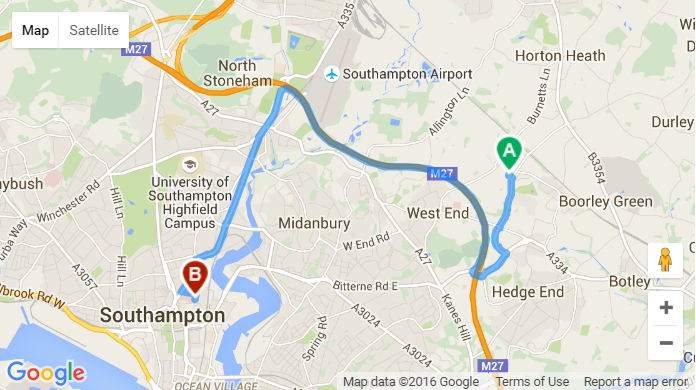
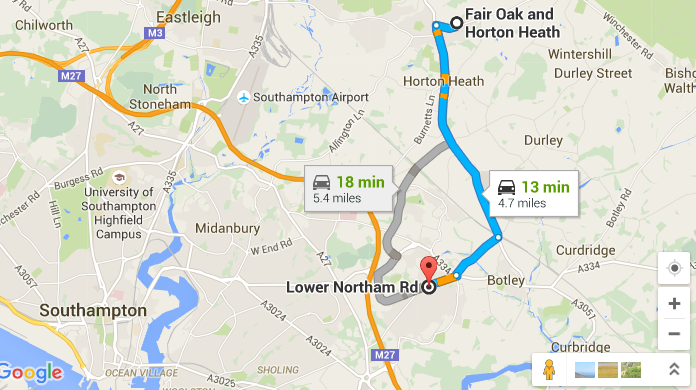
updated images to match results and made service details more user freindly

diff --git a/prototypes/referral-signposting/1/itkreferral.html b/prototypes/referral-signposting/1/itkreferral.html
@@ -298,12 +298,12 @@
         <section style="border-bottom: solid rgba(128, 128, 128, 0.5) 1px; margin-bottom: 10px;">
             <div class="section-item">
                 <h3 class="section-header">
-                    Directions to MH - In hours - NON Caseload / New Patients (18 yrs + ) - Isle of Wight from SO30 2UN
+                    Directions to Hampshire GP - Hedge End Medical Centre, Southampton
                 </h3>
 
                 <div class="personal-details-content" style="margin-bottom: 10px;">
                     <div style="float: left; display: block;" class=" service-address">
-                        CRHT , Sevenacres, St Marys Hospital, Newport, Isle of Wight, PO30 5TG
+                        24-28 Lower Northam Road, Hedge End, Southampton, SO30 4FQ
                     </div>
                     <a style="float: left; display: block; margin-left: 20px;" href="#">Choose a different service</a>
                     </div>
@@ -323,17 +323,12 @@
                                 </tr>
                                 <tr jstcache="146" jsinstance="0">
                                     <td data-route-index="0" jstcache="147" jsaction="directionsRouteList.selectRoute" class="adp-listsel" jsan="7.adp-listsel,0.data-route-index,22.jsaction">
-                                        <span class="adp-listinfo"><b jstcache="148">M27 and A335 </b><span jstcache="149">8.4 mi</span><span jstcache="150">. </span><span jstcache="151">About <span jstcache="82">19 mins</span></span><span jstcache="152" style="display: none"></span></span>
+                                        <span class="adp-listinfo"><b jstcache="148">via B3354 and Winchester Rd/B3354 </b><span jstcache="149">4.7 mi</span><span jstcache="150">. </span><span jstcache="151">About <span jstcache="82">13 mins</span></span><span jstcache="152" style="display: none"></span></span>
                                     </td>
                                 </tr>
                                 <tr jstcache="146" jsinstance="1">
                                     <td data-route-index="1" jstcache="147" jsaction="directionsRouteList.selectRoute" jsan="0.data-route-index,22.jsaction">
-                                        <span class="adp-listinfo"><b jstcache="148">W End Rd </b><span jstcache="149">5.7 mi</span><span jstcache="150">. </span><span jstcache="151">About <span jstcache="82">20 mins</span></span><span jstcache="152" style="display: none"></span></span>
-                                    </td>
-                                </tr>
-                                <tr jstcache="146" jsinstance="*2">
-                                    <td data-route-index="2" jstcache="147" jsaction="directionsRouteList.selectRoute" jsan="0.data-route-index,22.jsaction">
-                                        <span class="adp-listinfo"><b jstcache="148">A335 </b><span jstcache="149">6.6 mi</span><span jstcache="150">. </span><span jstcache="151">About <span jstcache="82">22 mins</span></span><span jstcache="152" style="display: none"></span></span>
+                                        <span class="adp-listinfo"><b jstcache="148">via B3354 </b><span jstcache="149">5.4 mi</span><span jstcache="150">. </span><span jstcache="151">About <span jstcache="82">18 mins</span></span><span jstcache="152" style="display: none"></span></span>
                                     </td>
                                 </tr>
                             </tbody>
@@ -356,14 +351,14 @@
                                         <td>
                                             <img jstcache="53" src="https://mts.googleapis.com/maps/vt/icon/name=icons/spotlight/spotlight-waypoint-a.png&amp;text=A&amp;psize=16&amp;font=fonts/Roboto-Regular.ttf&amp;color=ff333333&amp;ax=44&amp;ay=48&amp;scale=2" class="adp-marker">
                                         </td>
-                                        <td jstcache="54" class="adp-text" jsan="7.adp-text">Hedge End, Southampton, Hampshire SO30 2UN, UK</td>
+                                        <td jstcache="54" class="adp-text" jsan="7.adp-text">Fair Oak and Horton Heath, Hampshire, UK</td>
                                     </tr>
                                 </tbody>
                             </table>
                         </div>
                         <div jstcache="55" jsinstance="*0">
                             <div class="adp-summary">
-                                <span jstcache="56">8.4 mi</span><span jstcache="57">. </span><span jstcache="58">About <span jstcache="82">19 mins</span></span> <span jstcache="59" style="display: none"></span>
+                                <span jstcache="56">4.7 mi</span><span jstcache="57">. </span><span jstcache="58">About <span jstcache="82">13 mins</span></span> <span jstcache="59" style="display: none"></span>
                             </div>
                             <div>
                                 <table class="adp-directions">
@@ -376,8 +371,7 @@
                                             </td>
                                             <td jstcache="63" class="adp-substep" jsan="7.adp-substep">1.</td>
                                             <td jstcache="64" class="adp-substep">
-                                                Head <b>north-east</b> towards <b>Tollbar Way</b>/<b>B3342</b>
-                                                <div style="font-size: 0.9em">Restricted-usage road</div>
+                                                Head west on Pembers Cl towards Mortimers Ln/B3037
                                             </td>
                                             <td class="adp-substep">
                                                 <div jstcache="65" class="adp-distance" jsan="7.adp-distance">279 ft</div>
@@ -391,8 +385,7 @@
                                             </td>
                                             <td jstcache="63" class="adp-substep" jsan="7.adp-substep">2.</td>
                                             <td jstcache="64" class="adp-substep">
-                                                Turn <b>right</b> onto <b>Tollbar Way</b>/<b>B3342</b>
-                                                <div style="font-size: 0.9em">Go through 1 roundabout</div>
+                                                Turn right onto Mortimers Ln/B3037
                                             </td>
                                             <td class="adp-substep">
                                                 <div jstcache="65" class="adp-distance" jsan="7.adp-distance">0.6 mi</div>
@@ -401,13 +394,13 @@
                                         <tr data-leg-index="0" data-step-index="2" jstcache="60" jsaction="directionsPanel.selectLegAndStep" jsinstance="2">
                                             <td class="adp-substep">
                                                 <div jstcache="61" class="adp-stepicon">
-                                                    <div jstcache="62" class="adp-roundabout-left adp-maneuver" jsan="7.adp-roundabout-left,7.adp-maneuver"></div>
+                                                    <div jstcache="62" class="adp-turn-left adp-maneuver" jsan="7.adp-turn-left,7.adp-maneuver"></div>
                                                 </div>
                                             </td>
                                             <td jstcache="63" class="adp-substep" jsan="7.adp-substep">3.</td>
                                             <td jstcache="64" class="adp-substep">
-                                                At the roundabout, take the <b>2nd</b> exit and stay on <b>Tollbar Way</b>/<b>B3342</b>
-                                                <div style="font-size: 0.9em">Go through 1 roundabout</div>
+                                                Turn left onto Winchester Rd/B3354
+                                                <div style="font-size: 0.9em">Continue to follow B3354</div>
                                             </td>
                                             <td class="adp-substep">
                                                 <div jstcache="65" class="adp-distance" jsan="7.adp-distance">0.3 mi</div>
@@ -416,11 +409,11 @@
                                         <tr data-leg-index="0" data-step-index="3" jstcache="60" jsaction="directionsPanel.selectLegAndStep" jsinstance="3">
                                             <td class="adp-substep">
                                                 <div jstcache="61" class="adp-stepicon">
-                                                    <div jstcache="62" class="adp-roundabout-left adp-maneuver" jsan="7.adp-roundabout-left,7.adp-maneuver"></div>
+                                                    <div jstcache="62" class="adp-turn-right adp-maneuver" jsan="7.adp-turn-right,7.adp-maneuver"></div>
                                                 </div>
                                             </td>
                                             <td jstcache="63" class="adp-substep" jsan="7.adp-substep">4.</td>
-                                            <td jstcache="64" class="adp-substep">At the roundabout, take the <b>2nd</b> exit and stay on <b>Tollbar Way</b>/<b>B3342</b></td>
+                                            <td jstcache="64" class="adp-substep">Turn right onto Woodhouse Ln</td>
                                             <td class="adp-substep">
                                                 <div jstcache="65" class="adp-distance" jsan="7.adp-distance">0.1 mi</div>
                                             </td>
@@ -432,7 +425,7 @@
                                                 </div>
                                             </td>
                                             <td jstcache="63" class="adp-substep" jsan="7.adp-substep">5.</td>
-                                            <td jstcache="64" class="adp-substep">At the roundabout, take the <b>3rd</b> exit onto <b>Charles Watts Way</b>/<b>A334</b></td>
+                                            <td jstcache="64" class="adp-substep">At the roundabout, take the 3rd exit onto Lower Northam Rd/B3033</td>
                                             <td class="adp-substep">
                                                 <div jstcache="65" class="adp-distance" jsan="7.adp-distance">0.4 mi</div>
                                             </td>
@@ -440,91 +433,16 @@
                                         <tr data-leg-index="0" data-step-index="5" jstcache="60" jsaction="directionsPanel.selectLegAndStep" jsinstance="5">
                                             <td class="adp-substep">
                                                 <div jstcache="61" class="adp-stepicon">
-                                                    <div jstcache="62" class="adp-roundabout-left adp-maneuver" jsan="7.adp-roundabout-left,7.adp-maneuver"></div>
+                                                    <div jstcache="62" class="adp-turn-left adp-maneuver" jsan="7.adp-turn-left,7.adp-maneuver"></div>
                                                 </div>
                                             </td>
                                             <td jstcache="63" class="adp-substep" jsan="7.adp-substep">6.</td>
-                                            <td jstcache="64" class="adp-substep">At the roundabout, take the <b>4th</b> exit onto the <b>M27</b> slip road to <b>Southampton West &amp; Docks</b>/<b>Eastleigh</b>/<b>Winchester</b></td>
-                                            <td class="adp-substep">
-                                                <div jstcache="65" class="adp-distance" jsan="7.adp-distance">0.5 mi</div>
+                                            <td jstcache="64" class="adp-substep">
+                                                Turn left
+                                                <div style="font-size: 0.9em">Destination will be on the left</div>
                                             </td>
-                                        </tr>
-                                        <tr data-leg-index="0" data-step-index="6" jstcache="60" jsaction="directionsPanel.selectLegAndStep" jsinstance="6">
-                                            <td class="adp-substep">
-                                                <div jstcache="61" class="adp-stepicon">
-                                                    <div jstcache="62" class="adp-merge adp-maneuver" jsan="7.adp-merge,7.adp-maneuver"></div>
-                                                </div>
-                                            </td>
-                                            <td jstcache="63" class="adp-substep" jsan="7.adp-substep">7.</td>
-                                            <td jstcache="64" class="adp-substep">Merge onto <b>M27</b></td>
-                                            <td class="adp-substep">
-                                                <div jstcache="65" class="adp-distance" jsan="7.adp-distance">3.1 mi</div>
-                                            </td>
-                                        </tr>
-                                        <tr data-leg-index="0" data-step-index="7" jstcache="60" jsaction="directionsPanel.selectLegAndStep" jsinstance="7">
-                                            <td class="adp-substep">
-                                                <div jstcache="61" class="adp-stepicon">
-                                                    <div jstcache="62" class="adp-ramp-left adp-maneuver" jsan="7.adp-ramp-left,7.adp-maneuver"></div>
-                                                </div>
-                                            </td>
-                                            <td jstcache="63" class="adp-substep" jsan="7.adp-substep">8.</td>
-                                            <td jstcache="64" class="adp-substep">At junction <b>5</b>, take the <b>A335</b> exit to <b>Southampton Airport</b>/<b>Eastleigh</b></td>
                                             <td class="adp-substep">
                                                 <div jstcache="65" class="adp-distance" jsan="7.adp-distance">0.2 mi</div>
-                                            </td>
-                                        </tr>
-                                        <tr data-leg-index="0" data-step-index="8" jstcache="60" jsaction="directionsPanel.selectLegAndStep" jsinstance="8">
-                                            <td class="adp-substep">
-                                                <div jstcache="61" class="adp-stepicon">
-                                                    <div jstcache="62" class="adp-roundabout-left adp-maneuver" jsan="7.adp-roundabout-left,7.adp-maneuver"></div>
-                                                </div>
-                                            </td>
-                                            <td jstcache="63" class="adp-substep" jsan="7.adp-substep">9.</td>
-                                            <td jstcache="64" class="adp-substep">At the roundabout, take the <b>1st</b> exit onto <b>Stoneham Way</b>/<b>A335</b></td>
-                                            <td class="adp-substep">
-                                                <div jstcache="65" class="adp-distance" jsan="7.adp-distance">0.7 mi</div>
-                                            </td>
-                                        </tr>
-                                        <tr data-leg-index="0" data-step-index="9" jstcache="60" jsaction="directionsPanel.selectLegAndStep" jsinstance="9">
-                                            <td class="adp-substep">
-                                                <div jstcache="61" class="adp-stepicon">
-                                                    <div jstcache="62" class="adp-turn-left adp-maneuver" jsan="7.adp-turn-left,7.adp-maneuver"></div>
-                                                </div>
-                                            </td>
-                                            <td jstcache="63" class="adp-substep" jsan="7.adp-substep">10.</td>
-                                            <td jstcache="64" class="adp-substep">
-                                                Turn <b>left</b> onto <b>Thomas Lewis Way</b>/<b>A335</b>
-                                                <div style="font-size: 0.9em">Continue to follow A335</div>
-                                            </td>
-                                            <td class="adp-substep">
-                                                <div jstcache="65" class="adp-distance" jsan="7.adp-distance">2.2 mi</div>
-                                            </td>
-                                        </tr>
-                                        <tr data-leg-index="0" data-step-index="10" jstcache="60" jsaction="directionsPanel.selectLegAndStep" jsinstance="10">
-                                            <td class="adp-substep">
-                                                <div jstcache="61" class="adp-stepicon">
-                                                    <div jstcache="62" class="adp-turn-left adp-maneuver" jsan="7.adp-turn-left,7.adp-maneuver"></div>
-                                                </div>
-                                            </td>
-                                            <td jstcache="63" class="adp-substep" jsan="7.adp-substep">11.</td>
-                                            <td jstcache="64" class="adp-substep">Turn <b>left</b> onto <b>Lyon St</b></td>
-                                            <td class="adp-substep">
-                                                <div jstcache="65" class="adp-distance" jsan="7.adp-distance">0.2 mi</div>
-                                            </td>
-                                        </tr>
-                                        <tr data-leg-index="0" data-step-index="11" jstcache="60" jsaction="directionsPanel.selectLegAndStep" jsinstance="*11">
-                                            <td class="adp-substep">
-                                                <div jstcache="61" class="adp-stepicon">
-                                                    <div jstcache="62" class="adp-turn-right adp-maneuver" jsan="7.adp-turn-right,7.adp-maneuver"></div>
-                                                </div>
-                                            </td>
-                                            <td jstcache="63" class="adp-substep" jsan="7.adp-substep">12.</td>
-                                            <td jstcache="64" class="adp-substep">
-                                                Turn <b>right</b> onto <b>Raven Rd</b>
-                                                <div style="font-size: 0.9em">Destination will be on the right</div>
-                                            </td>
-                                            <td class="adp-substep">
-                                                <div jstcache="65" class="adp-distance" jsan="7.adp-distance">358 ft</div>
                                             </td>
                                         </tr>
                                     </tbody>
@@ -537,7 +455,7 @@
                                             <td>
                                                 <img jstcache="67" src="https://mts.googleapis.com/maps/vt/icon/name=icons/spotlight/spotlight-waypoint-b.png&amp;text=B&amp;psize=16&amp;font=fonts/Roboto-Regular.ttf&amp;color=ff333333&amp;ax=44&amp;ay=48&amp;scale=2" class="adp-marker">
                                             </td>
-                                            <td jstcache="68" class="adp-text" jsan="7.adp-text">Southampton, Southampton SO14 0YG, UK</td>
+                                            <td jstcache="68" class="adp-text" jsan="7.adp-text">Lower Northam Rd, Hedge End, Southampton SO30 4FQ, UK</td>
                                         </tr>
                                     </tbody>
                                 </table>

diff --git a/prototypes/referral-signposting/1/SearchResults.html b/prototypes/referral-signposting/1/SearchResults.html
@@ -122,17 +122,18 @@
                         Recommended service
                     </h3>
                     <div class="service-list-content">
-                        <div class="service-name"><img src="icons/fac-map-A.png"/> MH - In hours - NON Caseload / New Patients (18 yrs + ) - Isle of Wight
+                        <div class="service-name">
+                            <img src="icons/fac-map-A.png" />Hampshire GP - Hedge End Medical Centre, Southampton
                         </div>
                         <div class="service-address">
-                            CRHT<br/>Sevenacres<br/>St Marys Hospital<br/>Newport, Isle of Wight<br/>PO30 5TG
+                            24-28 Lower Northam Road<br /> Hedge End<br />Southampton<br />SO30 4FQ
                         </div>
-                        <input data-val="true" data-val-number="The field IdField must be a number." data-val-required="The IdField field is required." id="IdField" name="IdField" type="hidden" value="1396255437">
 
                         <div class="service-actions">
                             <button class="button" name="PersonalDetails" value="">Get directions</button>
                             <button class="button expectme" name="PersonalDetails" value="">Let them know to expect me</button>
                         </div>
+
                     </div>
                 </div>
             </section>
@@ -143,33 +144,7 @@
                         Other services near you
                     </h3>
                     <div class="service-list-content">
-                        <div class="service-name"><img src="icons/fac-map-B.png"/>MH - Community Child and Adolescent MH Service up to 18 yrs- Isle of Wight
-                        </div>
-                        <div class="service-address">
-                            7 Pyle Street<br/>Newport<br/>Isle of Wight<br/>PO30 1JW
-                        </div>
-                        <input data-val="true" data-val-number="The field IdField must be a number." data-val-required="The IdField field is required." id="IdField" name="IdField" type="hidden" value="1399886899">
-
-                        <div class="service-actions">
-                            <button class="button" name="PersonalDetails" value="">Get directions</button>
-                        </div>
-
-                    </div>
-                    <div class="service-list-content">
-                        <div class="service-name"><img src="icons/fac-map-C.png"/>Hampshire GP - Hedge End Medical Centre, Southampton (WH CCG) (Home GP)
-                        </div>
-                        <div class="service-address">
-                            24-28 Lower Northam Road<br/> Hedge End<br/>Southampton<br/>SO30 4FQ
-                        </div>
-
-                        <div class="service-actions">
-                            <button class="button" name="PersonalDetails" value="">Get directions</button>
-                            <button class="button expectme" name="PersonalDetails" value="">Let them know to expect me</button>
-                        </div>
-
-                    </div>
-                    <div class="service-list-content">
-                        <div class="service-name"><img src="icons/fac-map-D.png"/>Hampshire GP - St Lukes Surgery, Hedge End, Southampton (WH CCG)
+                        <div class="service-name"><img src="icons/fac-map-B.png"/>Hampshire GP - St Lukes Surgery, Hedge End, Southampton
                         </div>
                         <div class="service-address">
                             St. Lukes Close<br/>Hedge End<br/>Southampton<br/>SO30 2US
@@ -182,7 +157,7 @@
 
                     </div>
                     <div class="service-list-content">
-                        <div class="service-name"><img src="icons/fac-map-E.png"/>GP Choice - Hants - Stokewood Surgery, Eastleigh (WH)
+                        <div class="service-name"><img src="icons/fac-map-C.png"/>GP Choice - Hants - Stokewood Surgery, Eastleigh
                         </div>
                         <div class="service-address">
                             Fair Oak Road<br/>Fair Oak<br/>Eastleigh<br/>SO50 8AU
